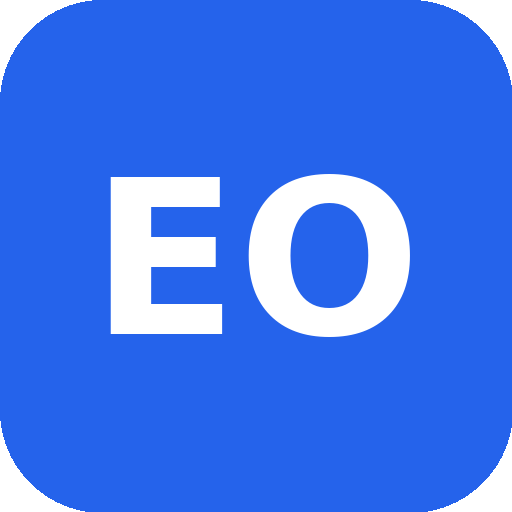
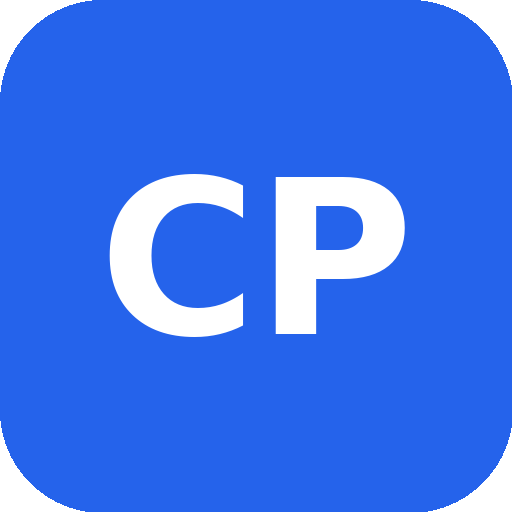
Add files via upload

diff --git a/painel.html b/painel.html
@@ -269,7 +269,7 @@ summary { cursor: pointer; color: var(--azul); font-size: 13px; font-weight: 700
     <div class="card"><p id="statusCarregando">Carregando seus dados...</p></div>
   </div>
 
-  <p class="marca-dagua">feito no Estelar Orçamentos</p>
+  <p class="marca-dagua">feito no Cosmos Pro</p>
 </div>
 
 <script>
@@ -1399,7 +1399,7 @@ async function osSalvar(osId) {
     error = erroInsercao;
     if (data) novoId = data.id;
   }
-  if (error) { msg.className = 'msg erro'; msg.textContent = 'Erro ao salvar OS.'; return; }
+  if (error) { msg.className = 'msg erro'; msg.textContent = 'Erro ao salvar OS: ' + (error.message || 'erro desconhecido'); console.error('Erro ao salvar OS:', error); return; }
 
   // Toda OS precisa de um compromisso vinculado. Se essa OS não veio de um agendamento existente, cria um automaticamente.
   if (!osId && !osContexto.agendaId && osContexto.clienteId) {
@@ -1520,7 +1520,7 @@ function renderAvulso() {
         <div class="proposal-total-desconto hidden" id="avProposalTotalDesconto"><span class="lbl">À vista (com desconto)</span><span class="val" id="avProposalTotalComDesconto">R$ 0,00</span></div>
         <div class="proposal-condicoes" id="avProposalCondicoes"></div>
         <div class="proposal-footer" id="avProposalFooter"></div>
-        <div class="proposal-marca">feito no Estelar Orçamentos</div>
+        <div class="proposal-marca">feito no Cosmos Pro</div>
       </div>
       <div class="action-row">
         <button class="btn btn-secundario" id="avPrintBtn">Salvar / imprimir PDF</button>
@@ -1771,7 +1771,7 @@ function avBuildStandaloneHTML(d) {
   ${d.temDesconto ? `<div class="proposal-total-desconto"><span class="lbl">À vista</span><span class="val">${d.totalComDescontoFormatado}</span></div>` : ''}
   <div class="proposal-condicoes">${d.condicoesHtml}</div>
   <div class="proposal-footer">${d.footerText}<br>${d.empresaHtml}</div>
-  <div class="proposal-marca">feito no Estelar Orçamentos</div>
+  <div class="proposal-marca">feito no Cosmos Pro</div>
   </div><button class="print-btn no-print" onclick="window.print()">Salvar / imprimir PDF</button></div></body></html>`;
 }
 
@@ -2088,7 +2088,7 @@ function renderContrato() {
         <div class="proposal-items" id="ctPropostaItems"></div>
         <div class="proposal-total"><span class="lbl">Valor por visita</span><span class="val" id="ctPropostaTotal">R$ 0,00</span></div>
         <div class="proposal-condicoes" id="ctPropostaCondicoes"></div>
-        <div class="proposal-marca">feito no Estelar Orçamentos</div>
+        <div class="proposal-marca">feito no Cosmos Pro</div>
       </div>
       <div class="action-row">
         <button class="btn btn-secundario" id="ctPrintBtn">Salvar / imprimir PDF</button>
@@ -2413,7 +2413,7 @@ function ctMontarContrato() {
     </table>
     <p style="margin-top:12px; font-size:12.5px;"><b>Frequência:</b> ${visitas}x/ano · <b>Deslocamento:</b> ${km} km · <b>Valor/visita:</b> ${money(totalVisita)} · <b>Valor anual estimado:</b> ${money(totalAnual)}</p>
     <p style="font-size:11px; color:var(--cinza-texto); margin-top:16px;">Minuta gerada automaticamente a partir do orçamento. Revise dados cadastrais (CNPJ, RT, foro) antes de formalizar.</p>
-    <div class="proposal-marca">feito no Estelar Orçamentos</div>
+    <div class="proposal-marca">feito no Cosmos Pro</div>
   `;
 
   document.getElementById('ctEditor').classList.add('hidden');

diff --git a/login.html b/login.html
@@ -80,7 +80,7 @@ input:focus { outline: none; border-color: var(--azul); box-shadow: 0 0 0 3px #e
     <div class="logo-badge">
       <svg viewBox="0 0 24 24" fill="none" stroke="currentColor" stroke-width="2" stroke-linecap="round" stroke-linejoin="round"><path d="M12 2v4"/><path d="M12 18v4"/><path d="M4.93 4.93l2.83 2.83"/><path d="M16.24 16.24l2.83 2.83"/><path d="M2 12h4"/><path d="M18 12h4"/><path d="M4.93 19.07l2.83-2.83"/><path d="M16.24 7.76l2.83-2.83"/></svg>
     </div>
-    <div class="marca">Estelar Orçamentos</div>
+    <div class="marca">Cosmos Pro</div>
     <div class="sub">Ferramentas para o seu dia a dia</div>
   </div>
   <div class="card">

diff --git a/index.html b/index.html
@@ -3,7 +3,7 @@
 <head>
 <meta charset="UTF-8">
 <meta http-equiv="refresh" content="0; url=login.html">
-<title>Estelar Orçamentos</title>
+<title>Cosmos Pro</title>
 </head>
 <body>
 <script>window.location.href = "login.html";</script>
